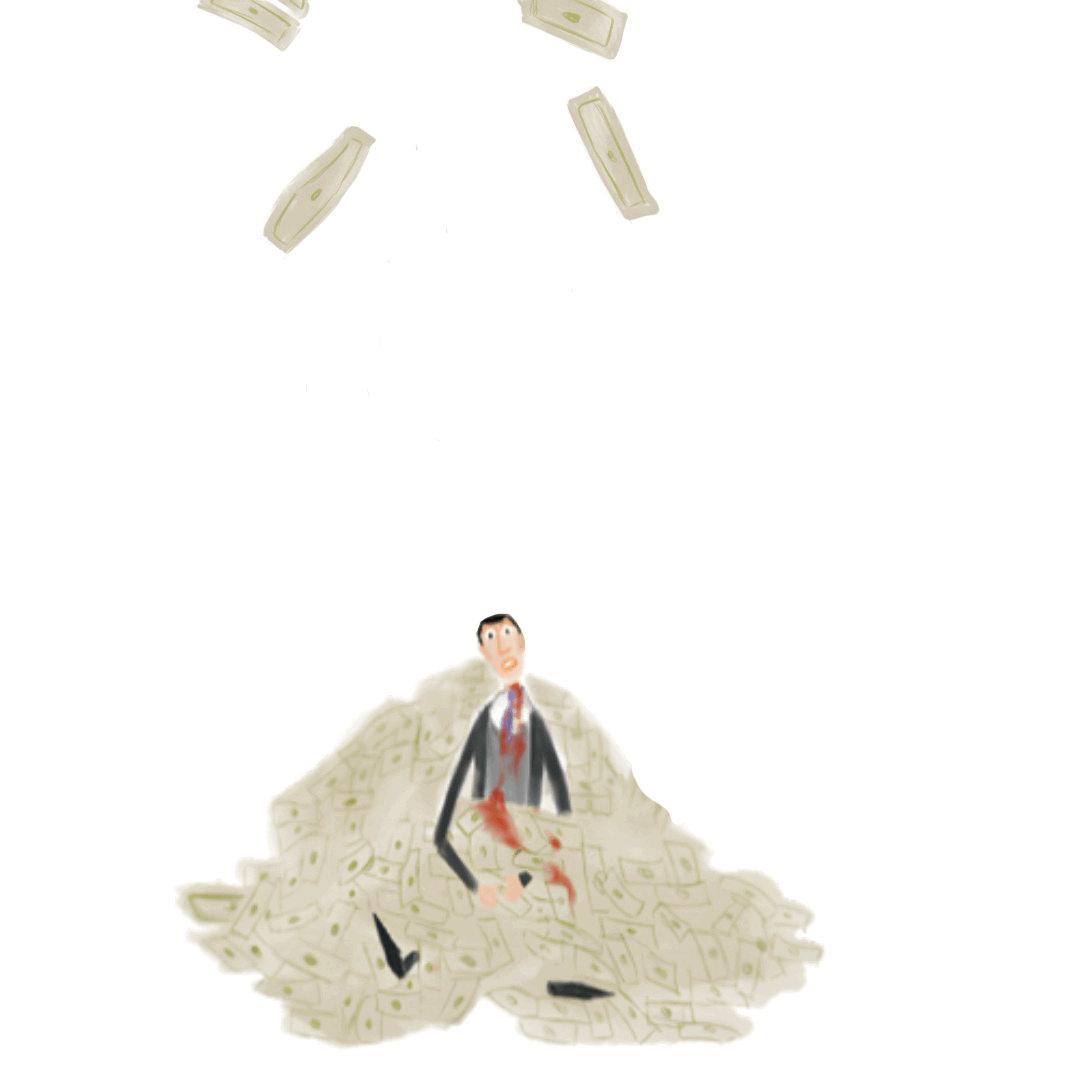
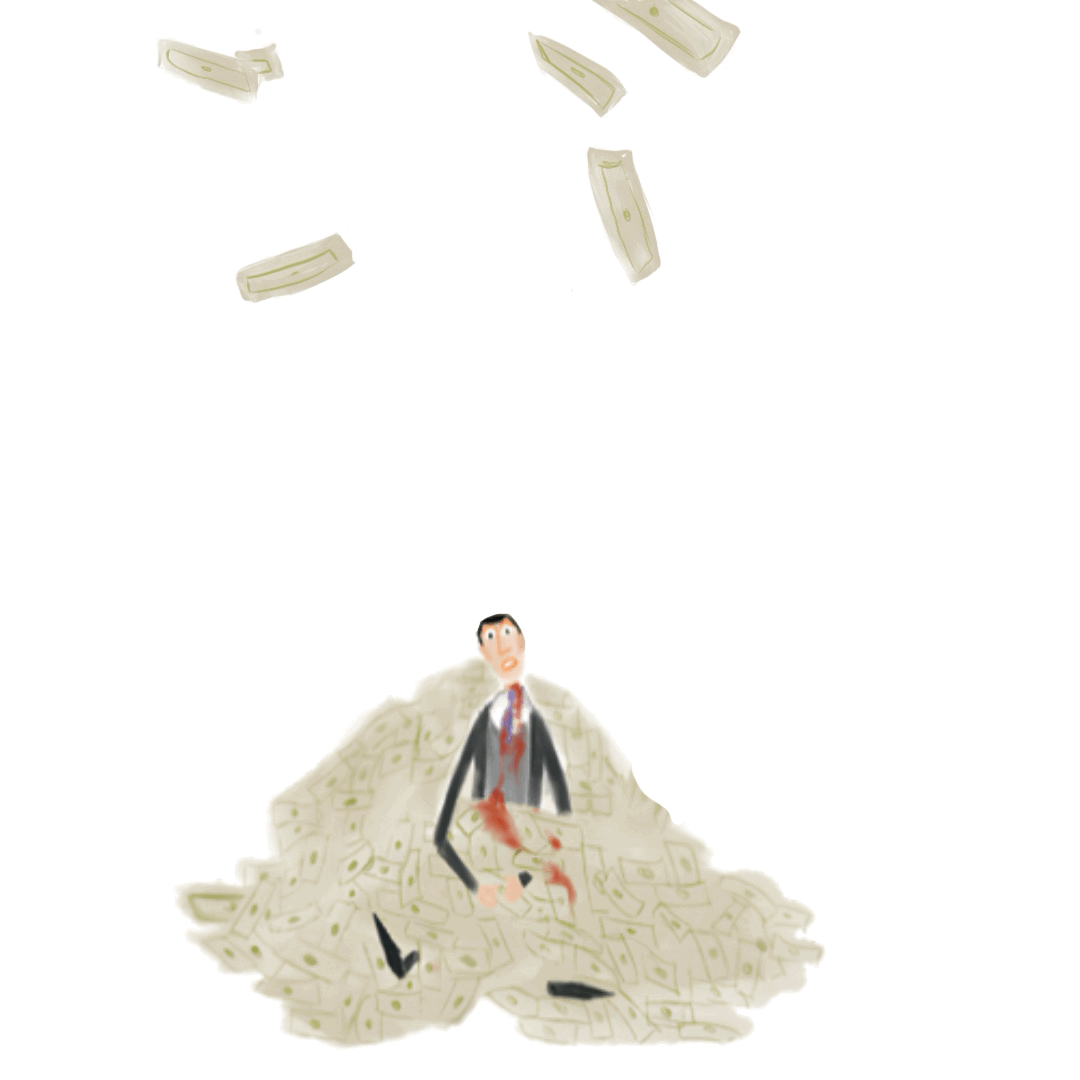
apaguei animacao que nao funcionava

Changed region(s): [[0.4583, 0.0, 0.7028, 0.275], [0.2139, 0.1222, 0.3667, 0.275], [0.1222, 0.0, 0.3056, 0.0917]]

diff --git a/homepage.js b/homepage.js
@@ -1,0 +1,104 @@
+// Seleciona todos os itens da lista (botões)
+let lista = document.querySelectorAll('.topicos ul li');
+
+// Seleciona todos os contentores dos botões 
+let quizzConts = document.querySelectorAll('.quizzCont');
+
+// Função para esconder todas as divs de conteúdo
+function esconderTodos() {
+    let nCont = quizzConts.length;
+
+    for (let i = 0; i < nCont; i++) {//para cada um dos <li> da lista <ul>
+        quizzConts[i].style.border = 'solid blue';
+        quizzConts[i].style.display = 'none'; //e os outros estarão todos escondidos ("apagados")
+    }
+}
+esconderTodos();
+
+
+// Função para a posição dos divs serem aleatórias
+function position() {
+    quizzConts.forEach((quizzCont) => {//para cada um dos contentores do quizz
+        let quizzSize = quizzCont.getBoundingClientRect(); // Obtém as dimensões reais do quizzContainer
+        let quizzWidth = quizzSize.width;
+        let quizzHeight = quizzSize.height;
+
+        let squares = quizzCont.querySelectorAll('.square'); // Seleciona apenas os squares dentro do contêiner atual
+
+        for (let i = 0; i < squares.length; i++) {
+            let randomX = Math.random() * (quizzWidth - 80); // Ajusta para largura do contêiner
+            let randomY = Math.random() * (quizzHeight - 80); // Ajusta para altura do contêiner
+
+            squares[i].style.left = `${randomX}px`;
+            squares[i].style.top = `${randomY}px`;
+
+            mover(squares[i]);
+        }
+    });
+}
+
+
+// Função para desenhar o contentor correspondente ao tópico carregado
+function mostrarTopico(topico) {
+    esconderTodos();  // "Apaga" todos os contentores antes de mostrar o tópico selecionado
+    let contentor = document.querySelector('#' + topico);  // Seleciona a div correspondente
+    contentor.style.display = 'block';  // Exibe o contentor
+
+    position();
+
+    // Atualiza a cor dos itens da lista
+    lista.forEach(function (item) {
+        item.style.color = '#c9c9c9';  //retoma a cor cinza inicial
+    });
+
+    // A cor do item onde se clicar vai ser verde
+    let itemSelecionado = document.querySelector('#' + topico + 'Btn');
+    itemSelecionado.style.color = '#507650';  //desenha na cor verde
+}
+
+
+
+// Adiciona uma interação de click a cada item da lista
+lista.forEach(function (item) { //para cada um dos <li> da lista <ul>
+    item.addEventListener('click', function () {
+        // Desenha o conteúdo correspondente ao tópico clicado
+        mostrarTopico(item.id.replace('Btn', '')); //como o que diferencia o nome dos id é o 'Btn', 
+        //se eu retirar isso (substituo 'Btn' por "nada" - ' ')
+        //fico com o nome do id do contentor (com 'Btn' é o id do topico)
+    });
+});
+
+
+
+//função para arrastar os elementos
+function mover(square) {
+    let posX, posY;
+    let arrasta = false;
+
+    //momento em que pego na imagem
+    square.addEventListener('mousedown', (e) => {
+        arrasta = true;
+        posX = e.clientX - square.getBoundingClientRect().left;
+        posY = e.clientY - square.getBoundingClientRect().top;
+        square.style.cursor = 'grabbing';
+    });
+
+    //momento em que estou a arrastar a imagem
+    square.addEventListener('mousemove', (e) => {
+        if (arrasta) {
+            let posX = e.clientX - offsetX;
+            let posY = e.clientY - offsetY;
+
+            // Define as novas posições para o quadrado
+            square.style.left = `${posX}px`;
+            square.style.top = `${posY}px`;
+        }
+    });
+
+    //momento em que largo a imagem
+    document.addEventListener('mouseup', () => {
+        arrasta = false;
+        square.style.cursor = 'grab'; // Volta o cursor para "grab"
+    });
+}
+

diff --git a/homepage.css b/homepage.css
@@ -1,0 +1,126 @@
+/*importação da fonte*/
+@font-face {
+    font-family: 'Circular';
+    src: url(font/CircularStd-Book.otf);
+}
+
+* {
+    box-sizing: border-box;
+    padding: 0;
+    margin: 0;
+    scroll-behavior: smooth;
+    font-family: Circular;
+}
+
+header,
+section {
+    height: 100vh;
+    width: 100%;
+}
+
+header {
+    background: #b7b6b6;
+    position: relative;
+}
+
+header>div {
+    width: 100%;
+    position: absolute;
+    bottom: 0;
+}
+
+header>div>img {
+    position: relative;
+    margin-left: 7%;
+    margin-bottom: 7%;
+}
+
+section {
+    background: #fffef8;
+}
+
+.container {
+    width: 100%;
+    height: 100vh;
+    padding: 5% 7%;
+    /*top & bottom   right & left*/
+    box-sizing: border-box;
+}
+
+.text {
+    width: 550px;
+    margin-top: 3%;
+    font-family: 'Circular';
+    font-size: 12pt;
+    line-height: 1.4;
+}
+
+.container>h1 {
+    color: #507650;
+    font-size: 15pt;
+    margin-bottom: 15px;
+}
+
+.topicos {
+    width: 100%;
+    height: 50px;
+    display: flex;
+    align-items: center;
+    margin-top: 15px;
+}
+
+.topicos>ul {
+    display: flex;
+    flex-direction: row;
+    justify-content: start;
+    gap: 30px;
+    font-size: 15pt;
+}
+
+.topicos>ul>li {
+    list-style: none;
+    cursor: pointer;
+    color: #c9c9c9;
+}
+
+#localBtn {
+    color: #507650;
+}
+
+.quizzCont{
+    width: 700px;
+    height: 300px;
+    position: relative;
+    display: none;
+}
+
+.square{   
+    width: 80px;
+    height: 80px;
+    position: absolute;
+}
+
+#local{
+    display: block;
+}
+
+/*inicialmente só a arma está visível*/
+.local {
+    background-color: rgb(197, 50, 50);
+}
+
+.arma {
+    background-color: rgb(107, 175, 107);
+}
+
+.assassino {
+    background-color: rgb(158, 158, 255);
+}
+
+.vitima {
+    background-color: rgba(255, 255, 86, 0.655);
+}
+
+.motivo {
+    background-color: pink;
+}

diff --git a/homepage.html b/homepage.html
@@ -38,9 +38,21 @@
               e experimentação literária, provocando-nos o riso até dos atos mais mórbidos e sóbrios.
             </p>
           </div>
-          <div class="money" id="money">
-            <img class="imgMoney" src="midlepages/money/money1.png" alt="Obra">
-          </div>
+          <div class="animationContainer">
+            <img src="midlepages/money/money1.png" class="imagem primeira" alt="Animacao">
+            <img src="midlepages/money/money2.png" class="imagem" alt="Animacao">
+            <img src="midlepages/money/money4.png" class="imagem" alt="Animacao">
+            <img src="midlepages/money/money5.png" class="imagem" alt="Animacao">
+            <img src="midlepages/money/money7.png" class="imagem" alt="Animacao">
+            <img src="midlepages/money/money8.png" class="imagem" alt="Animacao">
+            <img src="midlepages/money/money9.png" class="imagem" alt="Animacao">
+            <img src="midlepages/money/money11.png" class="imagem" alt="Animacao">
+            <img src="midlepages/money/money12.png" class="imagem" alt="Animacao">
+            <img src="midlepages/money/money13.png" class="imagem" alt="Animacao">
+            <img src="midlepages/money/money14.png" class="imagem" alt="Animacao">
+            <img src="midlepages/money/money15.png" class="imagem" alt="Animacao">
+            <img src="midlepages/money/money16.png" class="imagem" alt="Animacao">
+        </div>
 
       </div>
     </section>
